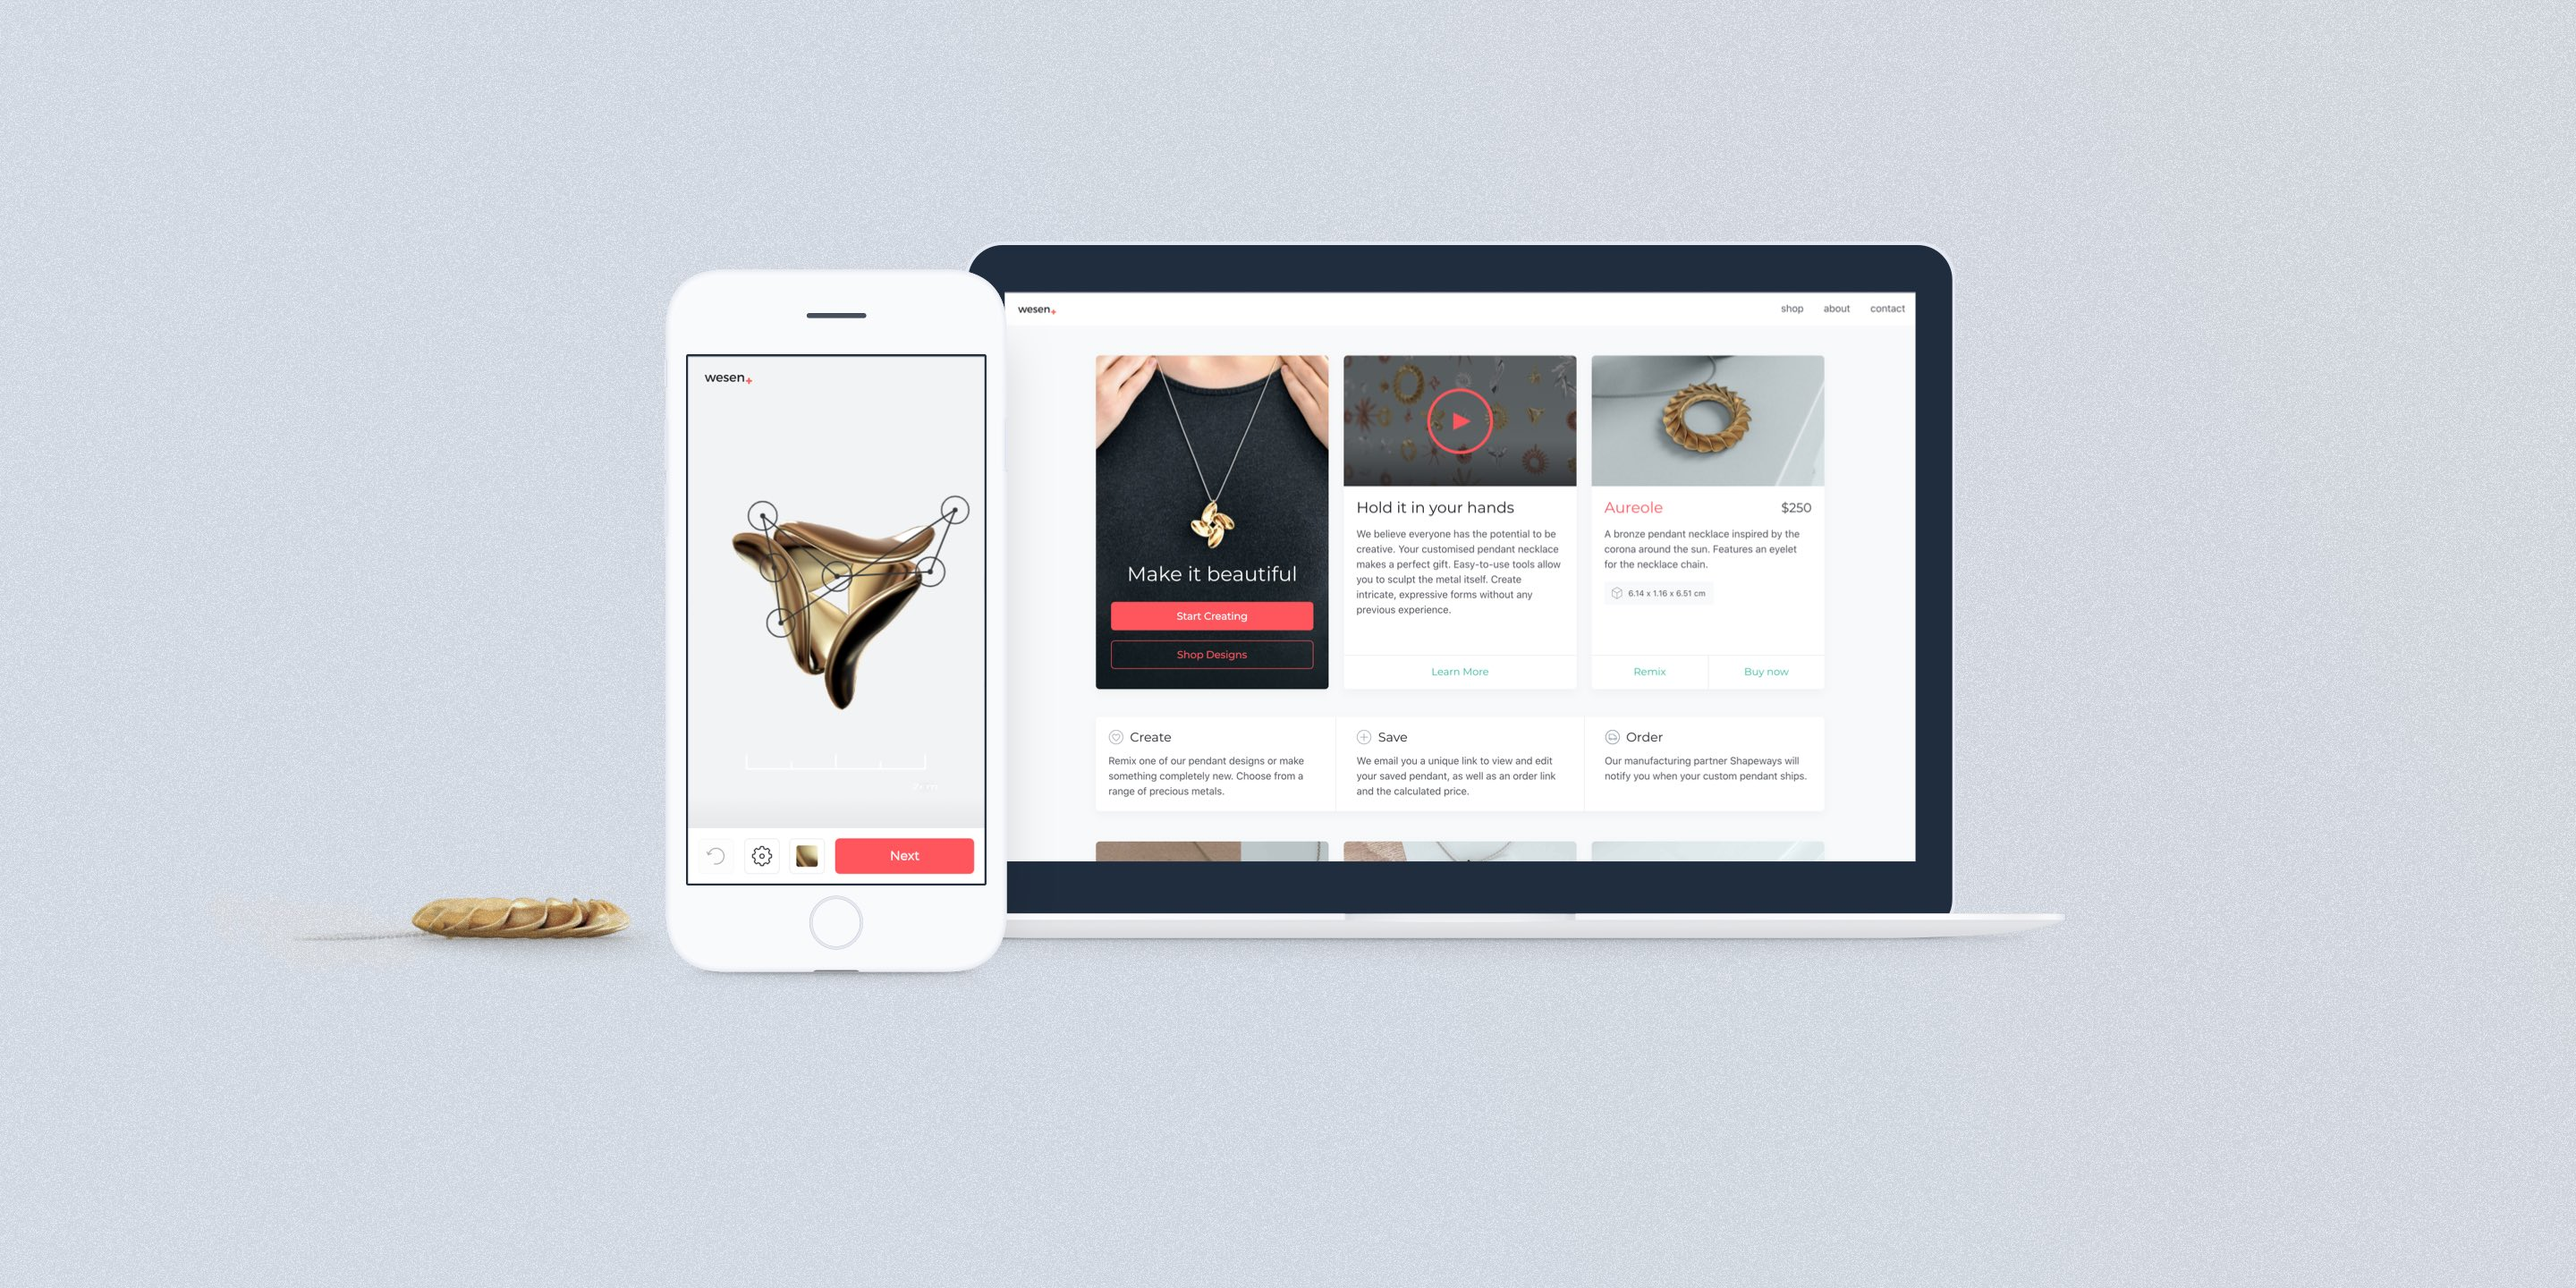
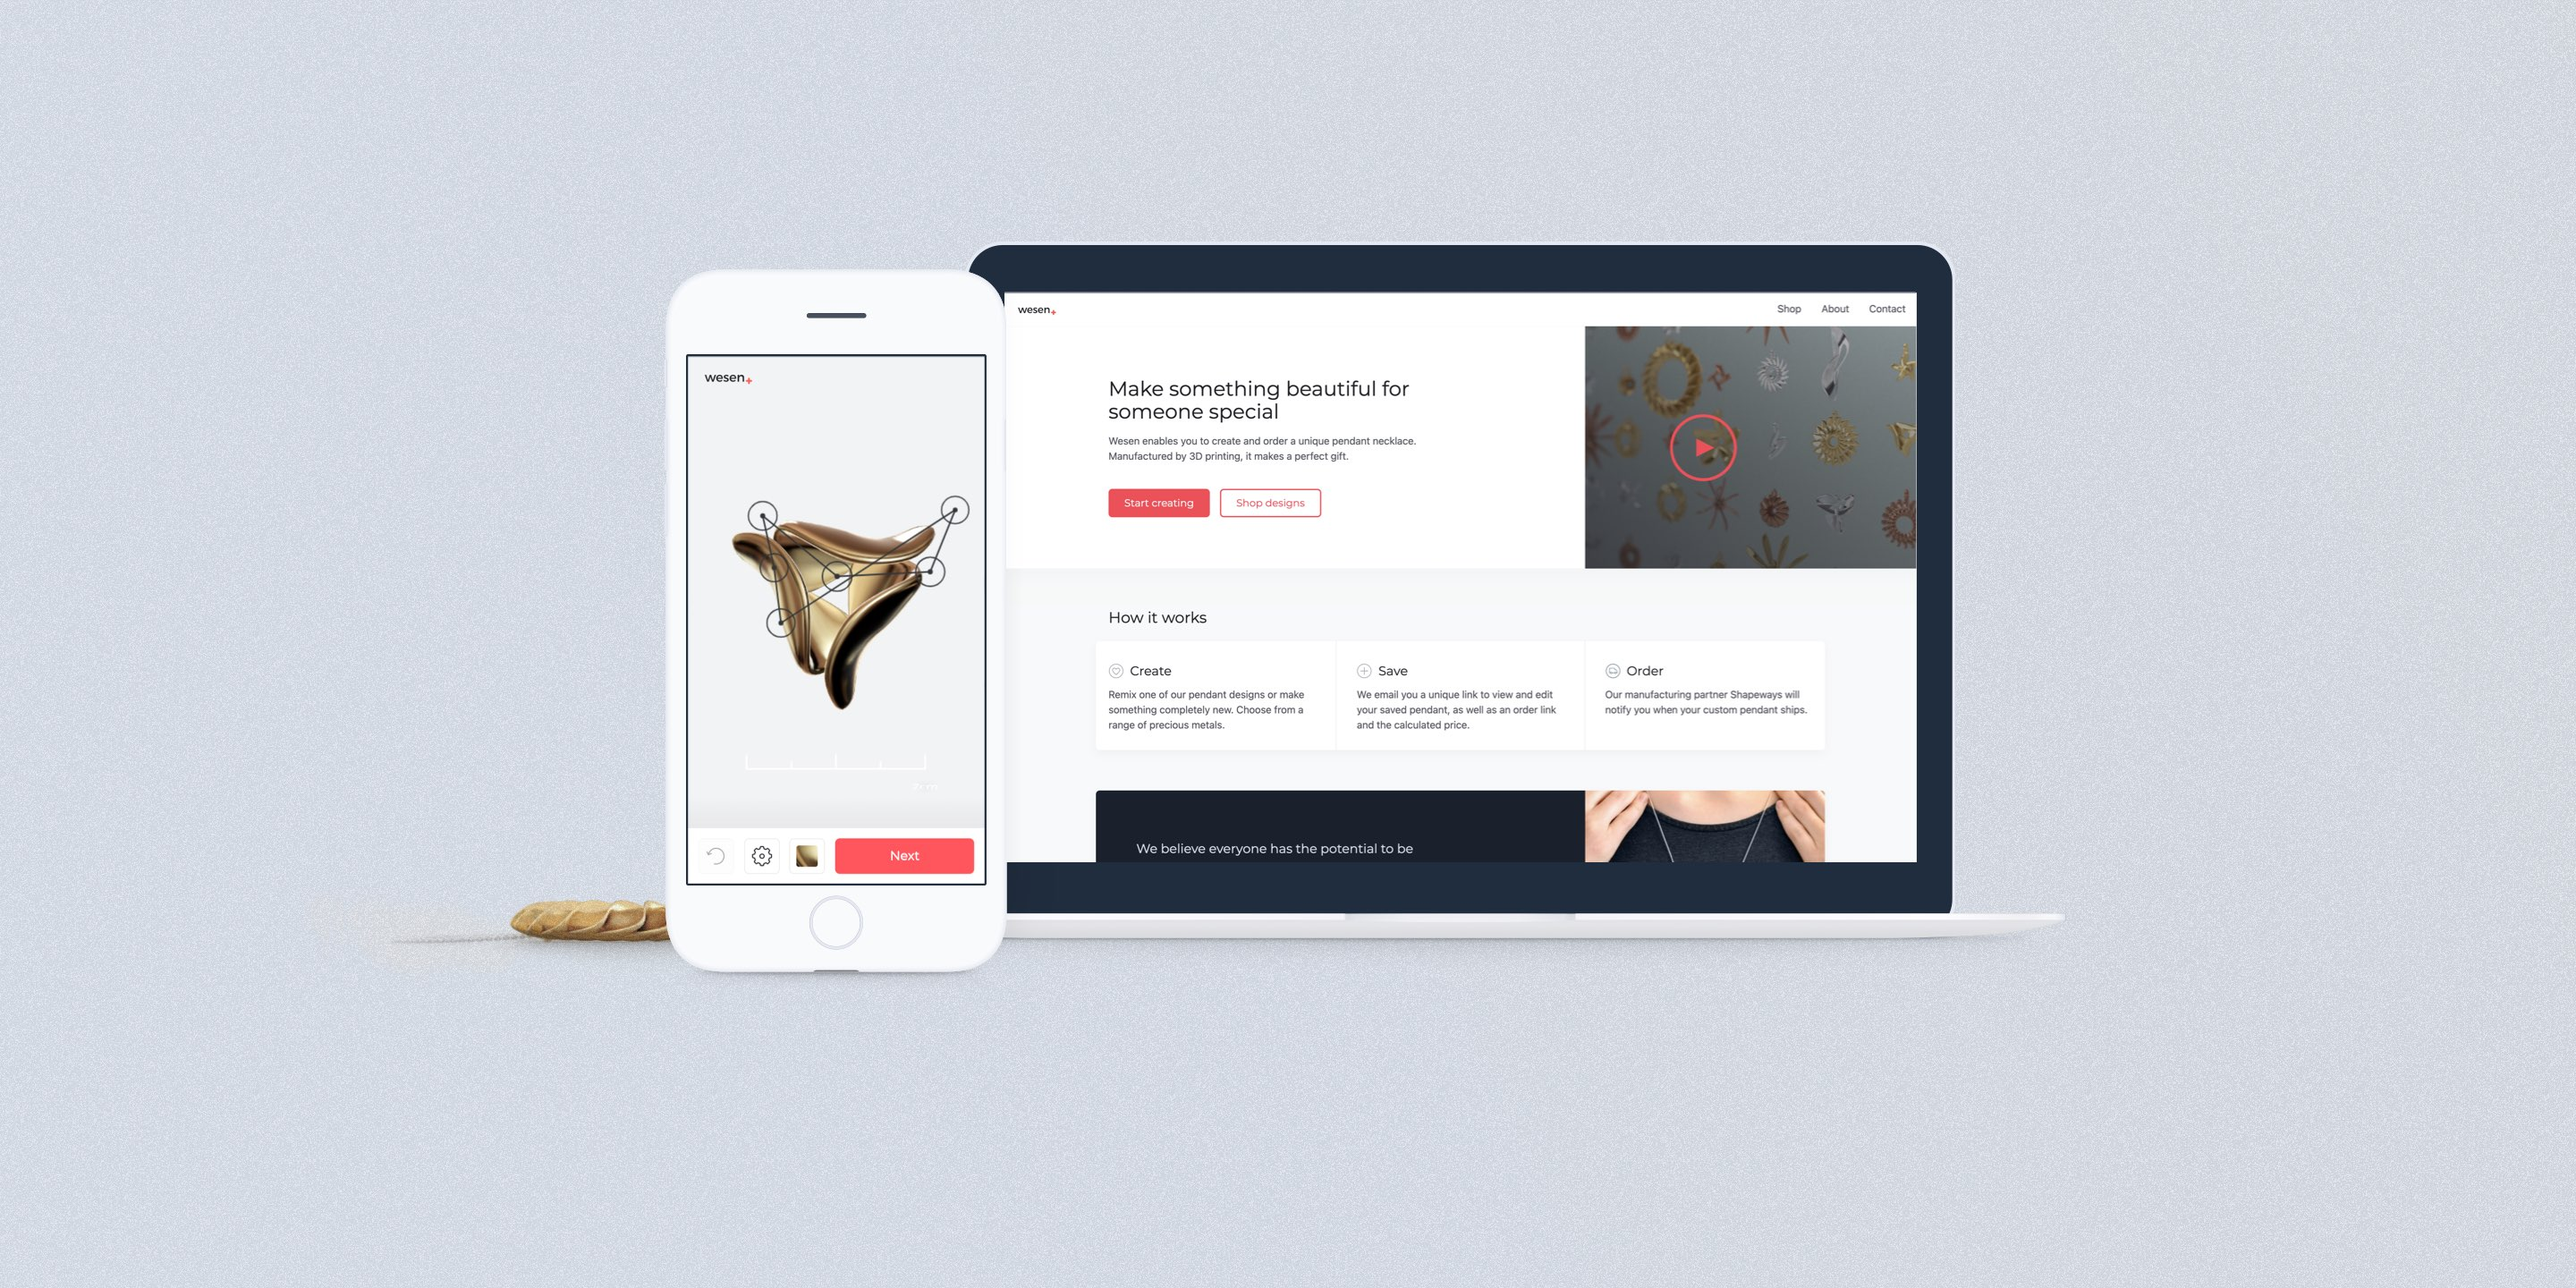
update wesen images

Changed region(s): [[0.4062, 0.25, 0.75, 0.6875], [0.1562, 0.6875, 0.2812, 0.75]]

diff --git a/portfolio/projects/wesen.md b/portfolio/projects/wesen.md
@@ -105,7 +105,15 @@ Wesen fulfils my original success criteria. It taught me a great deal but the mo
 </Content-TextSection>
 
 
-<Content-ImageFrames-MainImageSection padding="is-medium-large" imageClass="is-4by3" url="https://player.vimeo.com/video/463897939" alt="Wesen demo" :iframe="true"/>
+<Content-ImageFrames-MainImageSection padding="is-medium-large" imageClass="is-4by3" url="https://player.vimeo.com/video/463897939" alt="Wesen demo" :iframe="true" :aside="true">
+ 
+<template v-slot:aside>
+  <figure class="image parent-loading is-square">
+    <img class="lazyload" data-src="/images/wesen/context.jpg" alt="wesen pendant">
+  </figure>
+</template>
+
+</Content-ImageFrames-MainImageSection>
 
 
 
